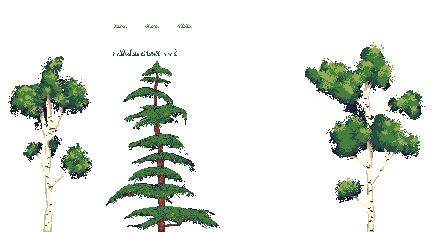
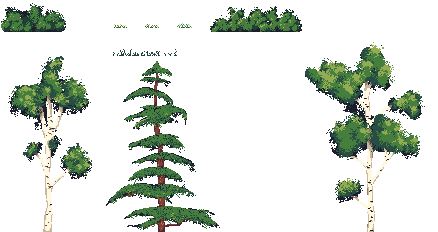
update assets

Changed region(s): [[0.4749, 0.0302, 0.7123, 0.1509], [0.0, 0.0, 0.1484, 0.1509]]

diff --git a/samples/golf/src/golf/Weather.cpp b/samples/golf/src/golf/Weather.cpp
@@ -30,6 +30,7 @@ source distribution.
 #include "GolfState.hpp"
 #include "PoissonDisk.hpp"
 #include "GameConsts.hpp"
+#include "MenuConsts.hpp"
 #include "../ErrorCheck.hpp"
 
 #include <crogine/ecs/components/Transform.hpp>
@@ -59,18 +60,37 @@ namespace
 
     VARYING_OUT LOW vec4 v_colour;
 
-const float SystemHeight = 10.0;
+    const float SystemHeight = 80.0;
+
+#if defined(EASE_SNOW)
+    const float PI = 3.1412;
+    float ease(float i)
+    {
+        return sin((i * PI) / 2.0);
+    }
+
+#else
+    float ease(float i)
+    {
+        return sqrt(1.0 - pow(i - 1.0, 2.0));
+    }
+#endif
 
     void main()
     {
         mat4 wvp = u_projectionMatrix * u_worldViewMatrix;
         vec4 position = a_position;
 
-position.y -= u_time;
-position.y = mod(position.y, SystemHeight);
-position.y -= (SystemHeight - position.y) * 5.0;
+        float p = position.y - u_time;
+        p = mod(p, SystemHeight);
+        //p = ease(0.2 + ((p / SystemHeight) * 0.8));
+        p = ease((p / SystemHeight));
+
+        position.y  = p * SystemHeight;
+
 
         gl_Position = wvp * position;
+        gl_PointSize = u_projectionMatrix[1][1] / gl_Position.w * 10.0;
 
         vec4 worldPos = u_worldMatrix * position;
         v_colour = a_colour;
@@ -85,14 +105,14 @@ position.y -= (SystemHeight - position.y) * 5.0;
 )";
 
 
-    const std::array<float, 3u> AreaStart = { 0.f, 0.f, -10.f };
-    const std::array<float, 3u> AreaEnd = { 10.f, 10.f, 0.f };
+    const std::array<float, 3u> AreaStart = { 0.f, 0.f, -20.f };
+    const std::array<float, 3u> AreaEnd = { 20.f, 80.f, 0.f };
 }
 
 void GolfState::createWeather()
 {
     cro::Clock clock;
-    auto points = pd::PoissonDiskSampling(1.6f, AreaStart, AreaEnd, 30u, static_cast<std::uint32_t>(std::time(nullptr)));
+    auto points = pd::PoissonDiskSampling(2.3f, AreaStart, AreaEnd, 30u, static_cast<std::uint32_t>(std::time(nullptr)));
 
     auto t = static_cast<float>(clock.elapsed().asMilliseconds()) / 1000.f;
     LogI << "Generated " << points.size() << " in " << t << " seconds" << std::endl;
@@ -108,8 +128,8 @@ void GolfState::createWeather()
         verts.push_back(points[i][1]);
         verts.push_back(points[i][2]);
         verts.push_back(1.f);
-        verts.push_back(0.f);
-        verts.push_back(0.5f);
+        verts.push_back(1.f);
+        verts.push_back(1.f);
         verts.push_back(1.f);
 
         /*
@@ -144,14 +164,27 @@ void GolfState::createWeather()
     glCheck(glBufferData(GL_ELEMENT_ARRAY_BUFFER, submesh->indexCount * sizeof(std::uint32_t), indices.data(), GL_STATIC_DRAW));
     glCheck(glBindBuffer(GL_ELEMENT_ARRAY_BUFFER, 0));
 
-    m_resources.shaders.loadFromString(ShaderID::Weather, WeatherVertex, WireframeFragment);
+    meshData->boundingBox[0] = { AreaStart[0], AreaStart[1], AreaStart[2] };
+    meshData->boundingBox[1] = { AreaEnd[0], AreaEnd[1], AreaEnd[2] };
+    meshData->boundingSphere.centre = meshData->boundingBox[0] + ((meshData->boundingBox[1] - meshData->boundingBox[0]) / 2.f);
+    meshData->boundingSphere.radius = glm::length((meshData->boundingBox[1] - meshData->boundingBox[0]) / 2.f);
+
+    m_resources.shaders.loadFromString(ShaderID::Weather, "#define EASE_SNOW\n" + WeatherVertex, WireframeFragment);
     auto& shader = m_resources.shaders.get(ShaderID::Weather);
     auto materialID = m_resources.materials.add(shader);
+    auto material = m_resources.materials.get(materialID);
+    material.setProperty("u_colour", LeaderboardTextLight);
+    //material.setProperty("u_colour", WaterColour);
 
     auto entity = m_gameScene.createEntity();
     entity.addComponent<cro::Transform>().setPosition(glm::vec3(250.f, 0.f, -28.f));
-    entity.addComponent<cro::Model>(m_resources.meshes.getMesh(meshID), m_resources.materials.get(materialID));
+    entity.addComponent<cro::Model>(m_resources.meshes.getMesh(meshID), material);
+    entity.getComponent<cro::Model>().setRenderFlags(~(RenderFlags::MiniGreen | RenderFlags::MiniMap));
 
+    entity = m_gameScene.createEntity();
+    entity.addComponent<cro::Transform>().setPosition(glm::vec3(220.f, 0.f, -28.f));
+    entity.addComponent<cro::Model>(m_resources.meshes.getMesh(meshID), material);
+    entity.getComponent<cro::Model>().setRenderFlags(~(RenderFlags::MiniGreen | RenderFlags::MiniMap));
 
     //hax to update uniform
     auto uniformID = shader.getUniformID("u_time");
@@ -165,6 +198,6 @@ void GolfState::createWeather()
         accum += dt;
 
         glCheck(glUseProgram(shaderID));
-        glCheck(glUniform1f(uniformID, accum));
+        glCheck(glUniform1f(uniformID, accum * 3.f));
     };
 }

diff --git a/samples/golf/src/golf/MenuCreation.cpp b/samples/golf/src/golf/MenuCreation.cpp
@@ -1835,7 +1835,7 @@ void MenuState::createPlayerConfigMenu()
 {
     cro::Colour c(0.f, 0.f, 0.f, BackgroundAlpha);
     auto fadeNode = m_uiScene.createEntity();
-    fadeNode.addComponent<cro::Transform>().setPosition({ 0.f, 0.f, -0.4f }); //relative to bgNode!
+    fadeNode.addComponent<cro::Transform>(); //relative to bgNode!
     fadeNode.addComponent<cro::Drawable2D>().getVertexData() =
     {
         cro::Vertex2D(glm::vec2(-0.5f, 0.5f), c),
@@ -1890,6 +1890,7 @@ void MenuState::createPlayerConfigMenu()
     };
 
     fadeNode.getComponent<cro::Transform>().setPosition(bgNode.getComponent<cro::Transform>().getOrigin());
+    fadeNode.getComponent<cro::Transform>().move({ 0.f, 0.f, -0.4f });
     bgNode.getComponent<cro::Transform>().addChild(fadeNode.getComponent<cro::Transform>());
 
     auto selected = m_uiScene.getSystem<cro::UISystem>()->addCallback(
@@ -2258,6 +2259,12 @@ void MenuState::createPlayerConfigMenu()
                         }
                     };
                     m_uiScene.getSystem<cro::CommandSystem>()->sendCommand(cmd);
+
+                    //random ball
+                    auto ballID = cro::Util::Random::value(0, BallID::Count - 1);
+                    m_sharedData.localConnectionData.playerData[m_playerAvatar.activePlayer].ballID = ballID;
+
+                    m_ballCam.getComponent<cro::Callback>().getUserData<std::int32_t>() = ballID;
                 }
             });
     bgNode.getComponent<cro::Transform>().addChild(entity.getComponent<cro::Transform>());
@@ -2281,13 +2288,13 @@ void MenuState::createPlayerConfigMenu()
 
     //ball preview
     entity = m_uiScene.createEntity();
-    entity.addComponent<cro::Transform>().setPosition({ 206.f, 75.f, ButtonDepth });
+    entity.addComponent<cro::Transform>().setPosition({ 206.f, 70.f, ButtonDepth });
     entity.addComponent<cro::Drawable2D>();
     entity.addComponent<cro::Sprite>(m_ballTexture.getTexture());
     bgNode.getComponent<cro::Transform>().addChild(entity.getComponent<cro::Transform>());
 
     //ball select left
-    entity = createButton({ 213.f, 54.f }, "arrow_left");
+    entity = createButton({ 213.f, 49.f }, "arrow_left");
     entity.getComponent<cro::UIInput>().callbacks[cro::UIInput::ButtonUp] =
         m_uiScene.getSystem<cro::UISystem>()->addCallback([&](cro::Entity, const cro::ButtonEvent& evt)
             {
@@ -2306,7 +2313,7 @@ void MenuState::createPlayerConfigMenu()
     bgNode.getComponent<cro::Transform>().addChild(entity.getComponent<cro::Transform>());
 
     //ball select right
-    entity = createButton({ 246.f, 54.f }, "arrow_right");
+    entity = createButton({ 246.f, 49.f }, "arrow_right");
     entity.getComponent<cro::UIInput>().callbacks[cro::UIInput::ButtonUp] =
         m_uiScene.getSystem<cro::UISystem>()->addCallback([&](cro::Entity, const cro::ButtonEvent& evt)
             {

diff --git a/samples/golf/src/golf/TerrainBuilder.cpp b/samples/golf/src/golf/TerrainBuilder.cpp
@@ -292,12 +292,12 @@ void TerrainBuilder::create(cro::ResourceCollection& resources, cro::Scene& scen
     spriteSheet.loadFromFile("assets/golf/sprites/shrubbery.spt", resources.textures);
     m_billboardTemplates[BillboardID::Grass01] = spriteToBillboard(spriteSheet.getSprite("grass01"));
     m_billboardTemplates[BillboardID::Grass02] = spriteToBillboard(spriteSheet.getSprite("grass02"));
-    m_billboardTemplates[BillboardID::Flowers01] = spriteToBillboard(spriteSheet.getSprite("flowers01"));
-    m_billboardTemplates[BillboardID::Flowers02] = spriteToBillboard(spriteSheet.getSprite("flowers02"));
+    m_billboardTemplates[BillboardID::Flowers01] = spriteToBillboard(spriteSheet.getSprite("hedge01"));
+    m_billboardTemplates[BillboardID::Flowers02] = spriteToBillboard(spriteSheet.getSprite("hedge02"));
     m_billboardTemplates[BillboardID::Flowers03] = spriteToBillboard(spriteSheet.getSprite("flowers03"));
     m_billboardTemplates[BillboardID::Pine] = spriteToBillboard(spriteSheet.getSprite("pine"));
-    m_billboardTemplates[BillboardID::Willow] = spriteToBillboard(spriteSheet.getSprite("willow"));
-    m_billboardTemplates[BillboardID::Birch] = spriteToBillboard(spriteSheet.getSprite("birch"));
+    m_billboardTemplates[BillboardID::Willow] = spriteToBillboard(spriteSheet.getSprite("birch01"));
+    m_billboardTemplates[BillboardID::Birch] = spriteToBillboard(spriteSheet.getSprite("birch02"));
 
 
     //create a mesh to display the slope data
@@ -448,7 +448,7 @@ void TerrainBuilder::threadFunc()
                 auto seed = static_cast<std::uint32_t>(std::time(nullptr));
                 auto grass = pd::PoissonDiskSampling(GrassDensity, MinBounds, MaxBounds, 30u, seed);
                 auto trees = pd::PoissonDiskSampling(TreeDensity, MinBounds, MaxBounds);
-                auto flowers = pd::PoissonDiskSampling(TreeDensity * 1.5f, MinBounds, MaxBounds, 30u, seed / 2);
+                auto flowers = pd::PoissonDiskSampling(TreeDensity * 0.75f, MinBounds, MaxBounds, 30u, seed / 2);
 
                 //filter distribution by map area
                 m_billboardBuffer.clear();

diff --git a/samples/golf/src/golf/MenuState.cpp b/samples/golf/src/golf/MenuState.cpp
@@ -443,8 +443,8 @@ void MenuState::loadAssets()
     m_billboardTemplates[BillboardID::Flowers02] = spriteToBillboard(spriteSheet.getSprite("flowers02"));
     m_billboardTemplates[BillboardID::Flowers03] = spriteToBillboard(spriteSheet.getSprite("flowers03"));
     m_billboardTemplates[BillboardID::Pine] = spriteToBillboard(spriteSheet.getSprite("pine"));
-    m_billboardTemplates[BillboardID::Willow] = spriteToBillboard(spriteSheet.getSprite("willow"));
-    m_billboardTemplates[BillboardID::Birch] = spriteToBillboard(spriteSheet.getSprite("birch"));
+    m_billboardTemplates[BillboardID::Willow] = spriteToBillboard(spriteSheet.getSprite("birch01"));
+    m_billboardTemplates[BillboardID::Birch] = spriteToBillboard(spriteSheet.getSprite("birch02"));
 
     m_menuSounds.loadFromFile("assets/golf/sound/menu.xas", m_sharedData.sharedResources->audio);
     m_audioEnts[AudioID::Accept] = m_uiScene.createEntity();
@@ -661,12 +661,16 @@ void MenuState::createBallScene()
         cro::ModelDefinition(m_resources),
         cro::ModelDefinition(m_resources),
         cro::ModelDefinition(m_resources),
+        cro::ModelDefinition(m_resources),
+        cro::ModelDefinition(m_resources),
         cro::ModelDefinition(m_resources)
     };
     ballDefs[BallID::Normal].loadFromFile("assets/golf/models/ball.cmt");
     ballDefs[BallID::Pumpkin].loadFromFile("assets/golf/models/ball02.cmt");
     ballDefs[BallID::Bowling].loadFromFile("assets/golf/models/ball03.cmt");
     ballDefs[BallID::Snowman].loadFromFile("assets/golf/models/ball04.cmt");
+    ballDefs[BallID::Planet].loadFromFile("assets/golf/models/ball05.cmt");
+    ballDefs[BallID::Snail].loadFromFile("assets/golf/models/ball06.cmt");
 
     cro::ModelDefinition shadowDef(m_resources);
     shadowDef.loadFromFile("assets/golf/models/ball_shadow.cmt");

diff --git a/samples/golf/src/golf/GolfState.cpp b/samples/golf/src/golf/GolfState.cpp
@@ -665,6 +665,7 @@ void GolfState::render()
     cam.viewport = oldVP;
 
     //then render scene
+    glCheck(glEnable(GL_PROGRAM_POINT_SIZE));
     m_gameSceneTexture.clear();
     m_gameScene.render(m_gameSceneTexture);
     m_gameSceneTexture.display();
@@ -725,10 +726,12 @@ void GolfState::loadAssets()
     {
         md = std::make_unique<cro::ModelDefinition>(m_resources);
     }
-    m_modelDefs[ModelID::Ball]->loadFromFile("assets/golf/models/ball.cmt");
+    m_modelDefs[ModelID::Ball]->loadFromFile("assets/golf/models/ball.cmt"); //TODO make these more coherant as it's not clear wtf we're loading
     m_modelDefs[ModelID::Ball01]->loadFromFile("assets/golf/models/ball02.cmt");
-    m_modelDefs[ModelID::Ball02]->loadFromFile("assets/golf/models/ball03.cmt");
-    m_modelDefs[ModelID::Ball03]->loadFromFile("assets/golf/models/ball04.cmt");
+    m_modelDefs[ModelID::Ball02]->loadFromFile("assets/golf/models/ball05.cmt");
+    m_modelDefs[ModelID::Ball03]->loadFromFile("assets/golf/models/ball06.cmt");
+    m_modelDefs[ModelID::Ball04]->loadFromFile("assets/golf/models/ball03.cmt");
+    m_modelDefs[ModelID::Ball05]->loadFromFile("assets/golf/models/ball04.cmt");
     m_modelDefs[ModelID::BallShadow]->loadFromFile("assets/golf/models/ball_shadow.cmt");
 
     //UI stuffs
@@ -1482,7 +1485,7 @@ void GolfState::buildScene()
     sunEnt.getComponent<cro::Transform>().setRotation(cro::Transform::X_AXIS, /*-1.5f*/-38.746f * cro::Util::Const::degToRad);
 
 #ifdef CRO_DEBUG_
-    createWeather();
+    //createWeather();
 #endif 
 }
 

diff --git a/samples/golf/src/golf/GameConsts.hpp b/samples/golf/src/golf/GameConsts.hpp
@@ -62,6 +62,8 @@ static constexpr float PlayerShadowOffset = 0.04f;
 static constexpr glm::uvec2 MapSize(320u, 200u);
 static constexpr glm::uvec2 LabelTextureSize(128u, 64u);
 
+static const cro::Colour WaterColour(0.02f, 0.078f, 0.578f);
+
 struct MixerChannel final
 {
     enum
@@ -94,6 +96,8 @@ struct BallID final
     {
         Normal,
         Pumpkin,
+        Planet,
+        Snail,
         Bowling,
         Snowman,
 
@@ -105,6 +109,8 @@ static const std::array<cro::Colour, BallID::Count> BallTints =
 {
     cro::Colour(1.f,0.937f,0.752f),
     cro::Colour(1.f,0.364f,0.015f),
+    cro::Colour(0.1176f, 0.2f, 0.45f),
+    cro::Colour(0.937f, 0.76f, 0.235f),
     cro::Colour(0.015f,0.031f,1.f),
     cro::Colour(0.964f,1.f,0.878f)
 };

diff --git a/samples/golf/src/golf/GolfState.hpp b/samples/golf/src/golf/GolfState.hpp
@@ -120,6 +120,8 @@ private:
             Ball01,
             Ball02,
             Ball03,
+            Ball04,
+            Ball05,
             BallShadow,
 
             Count
